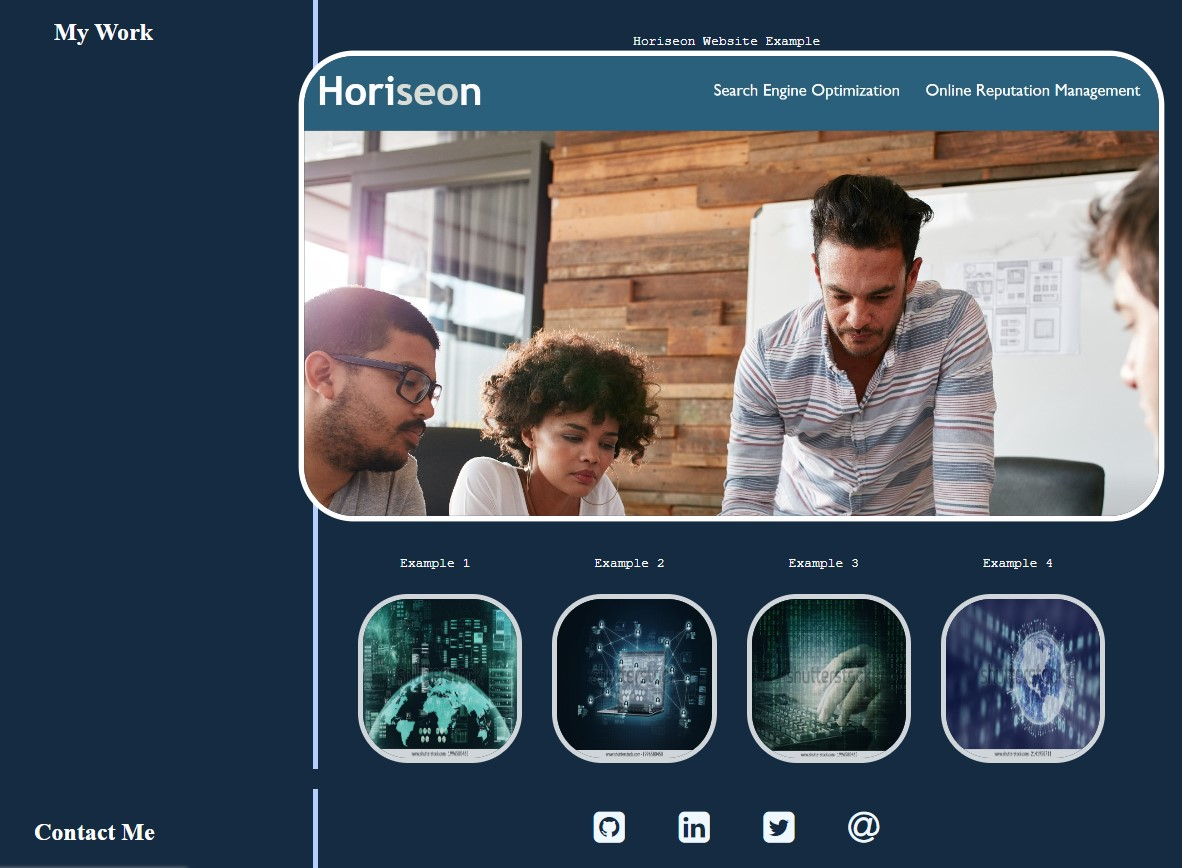
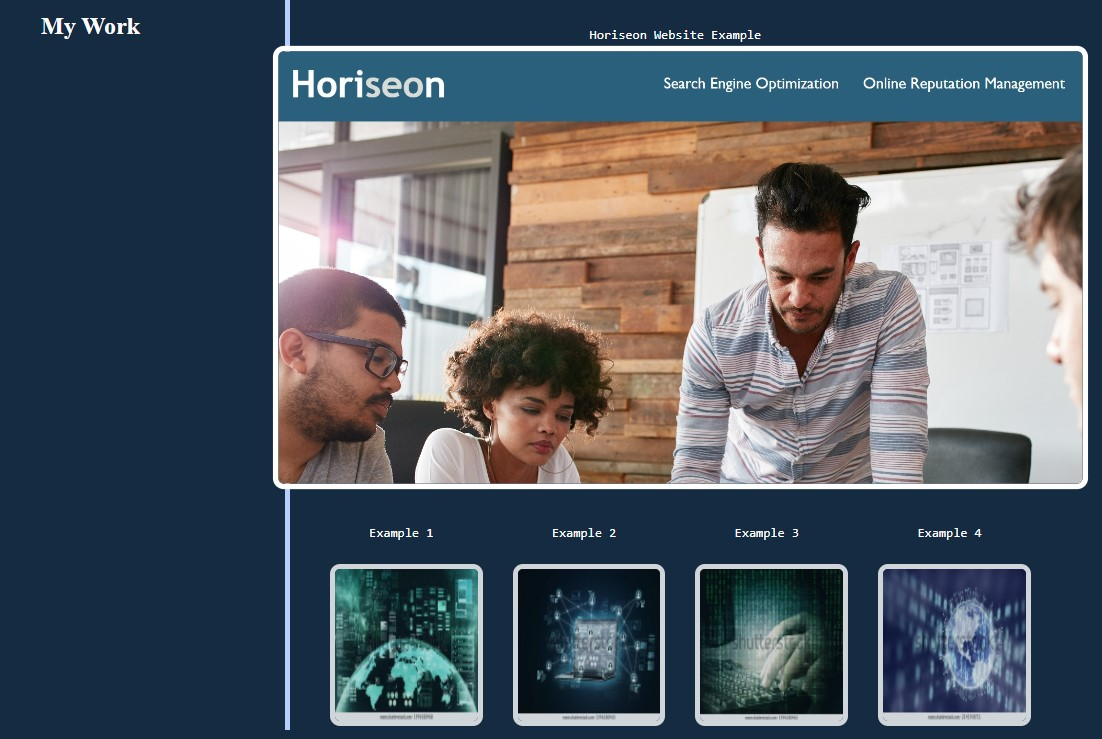
Final-README-with-images

diff --git a/index.html b/index.html
@@ -99,10 +99,10 @@
 
                 <div id="c-right">
                    
-                    <a href="https://github.com/Ellekcir" i class="fa fa-github-square" style="font-size:36px; text-decoration: none; color: aliceblue; margin: 25px "></i></a> 
-                    <a href="https://example.com/" i class="fa fa-linkedin-square" style="font-size:36px; text-decoration: none; color: aliceblue; margin: 25px"></i></a> 
-                    <a href="https://example.com/" i class="fa fa-twitter-square" style="font-size:36px; text-decoration: none; color: aliceblue; margin: 25px"></i></a> 
-                    <a href="mailto:rickelle.1993@live.com.au" i class="fa fa-at" style="font-size:36px; text-decoration: none; color: aliceblue; margin: 25px"></i></a>         
+                    <a href="https://github.com/Ellekcir" i class="fa fa-github-square" style="font-size:36px; text-decoration: none; color: aliceblue; margin: 25px "> github</i></a> 
+                    <a href="https://example.com/" i class="fa fa-linkedin-square" style="font-size:36px; text-decoration: none; color: aliceblue; margin: 25px"> linkedin</i></a> 
+                    <a href="https://example.com/" i class="fa fa-twitter-square" style="font-size:36px; text-decoration: none; color: aliceblue; margin: 25px"> twitter</i></a> 
+                    <a href="mailto:rickelle.1993@live.com.au" i class="fa fa-at" style="font-size:36px; text-decoration: none; color: aliceblue; margin: 25px"> email</i> </a>         
 
                 </div>
             </section>

diff --git a/assets/style.css b/assets/style.css
@@ -63,7 +63,7 @@ nav a {
 #profile {
   display: block;
   margin: auto;
-  border-radius: 150px;
+  border-radius: 5px;
   border:5px solid #fff;
 }
 #profile:hover {
@@ -83,7 +83,7 @@ main {
 }
 
 #work img {
-  border-radius: 50px;
+  border-radius: 5px;
   border:5px solid #fff;
   opacity:0.6
 }
@@ -142,7 +142,7 @@ h6 {
   }
 
   #work img {
-      border-radius: 50px;
+      border-radius: 10px;
       border:5px solid white;
       opacity:0.8
   }

diff --git a/README.md b/README.md
@@ -13,9 +13,11 @@ N/A
 
 This project allows you to interact with most of the page and to maximise the users experience, starting with the ability to use the top header options; "About Me", "My Work" or "Contact Me" to navigate to the designated content on the page. This will create a smooth scroll there. Both the "My Work" and "Contact Me" section provide links to external resources & the "My Work" images highlight when hovered over for a better visual effect. 
 
-```md
+
 ![Main Screen Shot](assets/images/Main-screen.jpg)
-```
+
+![Contact Bar](assets/images/ContactMe.jpg)
+
 The UI will adjust for better accessiblity and will adapt to the devices resolution, ensuring a better interaction with the webpage. 
 
 Please see some of the examples provided:
